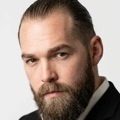
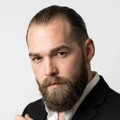
fix(landing): frame the creator photo head and shoulders

diff --git a/landing/src/components/CreatorNote.tsx b/landing/src/components/CreatorNote.tsx
@@ -35,7 +35,7 @@ export function CreatorNote() {
         class="group/note relative z-30 mt-6 flex w-full max-w-[340px] flex-col gap-3 rounded-3xl rounded-bl-md border border-white/80 bg-paper/80 p-4 font-mac shadow-glass backdrop-blur-xl transition-transform hover:-translate-y-0.5 lg:absolute lg:top-4 lg:right-8 lg:mt-0"
       >
         <span class="flex items-center gap-3">
-          {/* Cropped from the portfolio's own photo (portfolio/src/assets/images/angel.webp). */}
+          {/* Head-and-shoulders crop of the portfolio's own photo (portfolio/src/assets/images/angel.webp). */}
           <img
             src="/creator.jpg"
             alt=""
